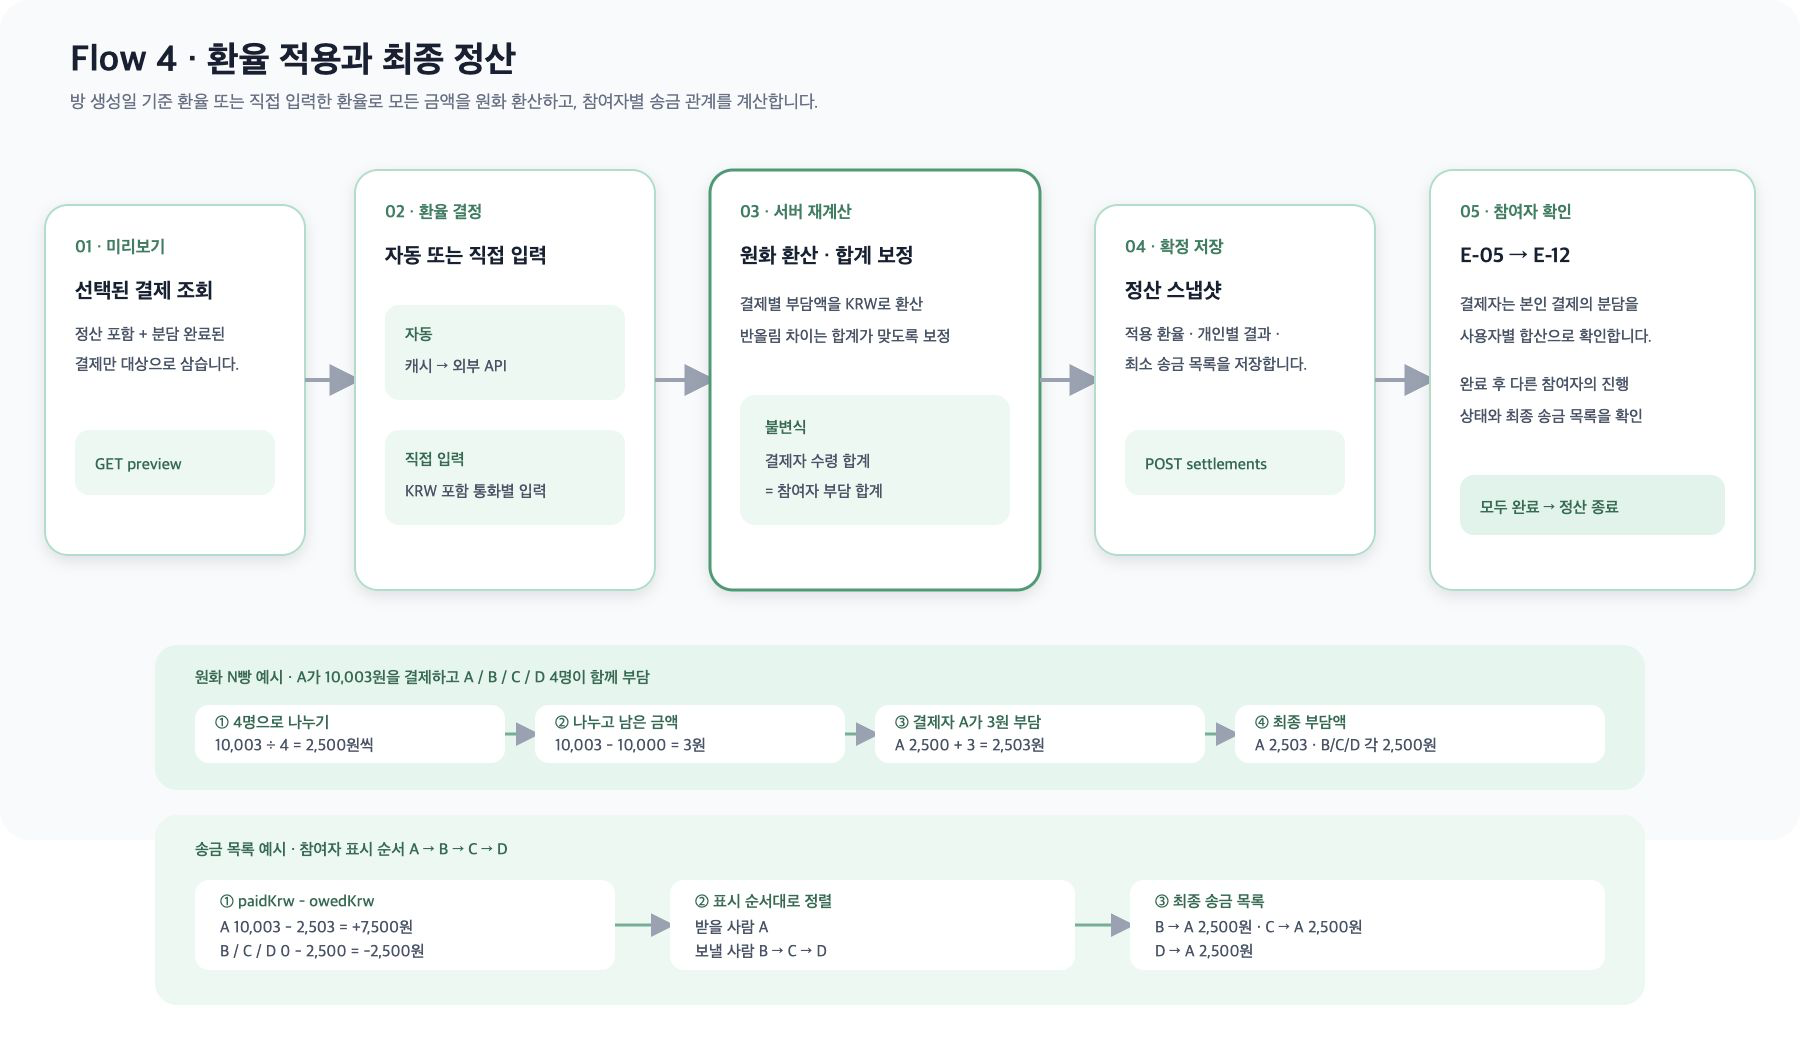
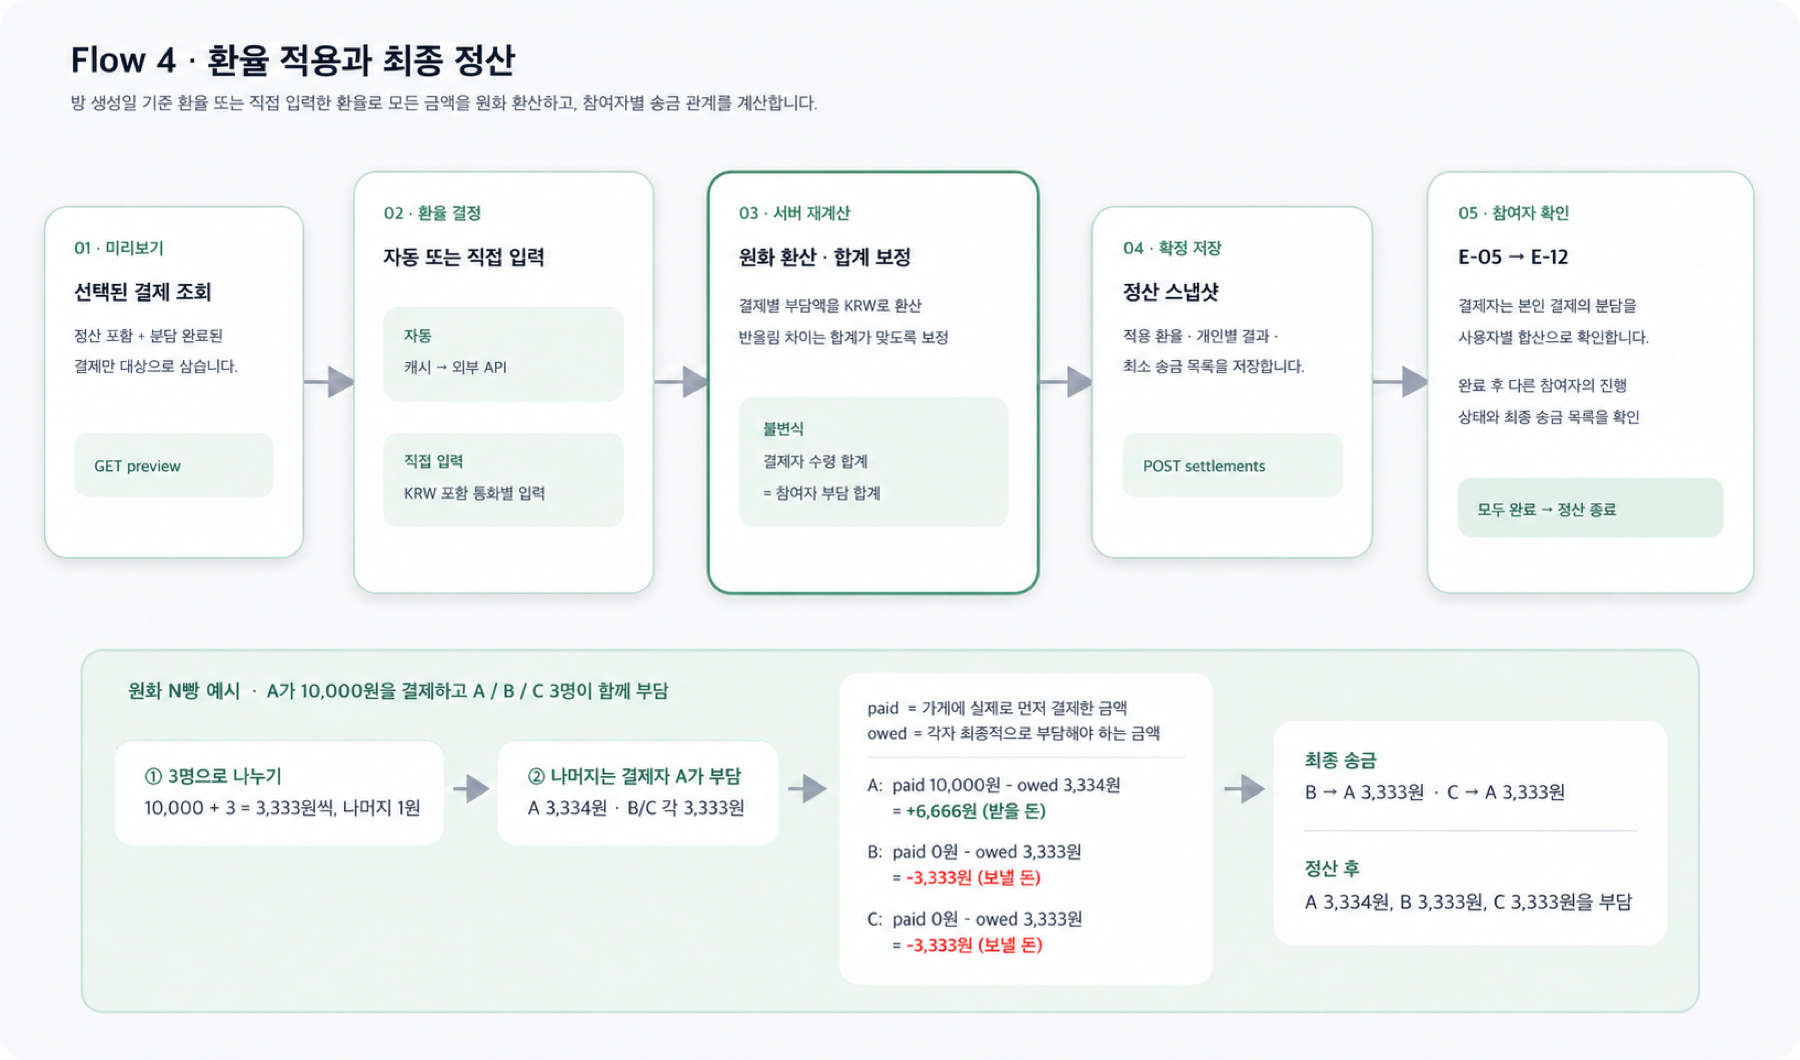
docs: 정산 계산 예시를 구체화한다

diff --git a/README.md b/README.md
@@ -143,6 +143,39 @@
 - 확정 요청은 프론트엔드의 계산 결과를 받지 않고 서버가 `Payment`와 `PaymentShare`를 다시 읽어 검증·계산합니다.
 - 결제 총액은 `HALF_UP`으로 원 단위 반올림합니다. 개별 부담액은 먼저 내림한 뒤 남은 원을 소수부가 큰 참여자부터 1원씩 배정해 합계를 보존합니다.
 - 참여자별로 `paidKrw - owedKrw`를 계산하고, 보낼 사람과 받을 사람을 `displayOrder` 순서로 연결해 결정적인 송금 목록을 만듭니다.
+
+#### 정산 계산 예시
+
+A, B, C가 각각 결제하고 A, B, C, D, E 다섯 명이 모든 결제를 함께 부담한다고 가정합니다.
+
+| 결제자 | 결제 내용 | 결제 금액 |
+|---|---|---:|
+| A | 숙소 | 50,000원 |
+| B | 식사 | 30,000원 |
+| C | 교통 | 20,000원 |
+| **합계** |  | **100,000원** |
+
+총 100,000원을 5명이 함께 부담하므로 각자의 `owedKrw`는 20,000원입니다. `paidKrw`는 각 참여자가 가게에 실제로 먼저 결제한 금액을 모두 더한 값입니다.
+
+| 참여자 | `paidKrw` — 먼저 결제한 금액 | `owedKrw` — 최종 부담할 금액 | `paidKrw - owedKrw` | 정산 결과 |
+|---|---:|---:|---:|---|
+| A | 50,000원 | 20,000원 | +30,000원 | 30,000원을 받아야 함 |
+| B | 30,000원 | 20,000원 | +10,000원 | 10,000원을 받아야 함 |
+| C | 20,000원 | 20,000원 | 0원 | 주고받을 금액 없음 |
+| D | 0원 | 20,000원 | -20,000원 | 20,000원을 보내야 함 |
+| E | 0원 | 20,000원 | -20,000원 | 20,000원을 보내야 함 |
+| **합계** | **100,000원** | **100,000원** | **0원** | 받을 금액과 보낼 금액이 일치 |
+
+양수는 받을 금액, 음수는 보낼 금액입니다. 참여자 표시 순서가 A → B → C → D → E라면 보낼 사람과 받을 사람을 순서대로 연결합니다.
+
+| 순서 | 보내는 사람 | 받는 사람 | 송금액 |
+|---:|---|---|---:|
+| 1 | D | A | 20,000원 |
+| 2 | E | A | 10,000원 |
+| 3 | E | B | 10,000원 |
+
+송금이 끝나면 다섯 명 모두 20,000원씩 부담한 상태가 되어 전체 결제 금액 100,000원과 정확히 일치합니다.
+
 - 확정 결과는 방당 하나의 `Settlement`에 환율 스냅샷, 참여자 결과, 송금 목록으로 저장됩니다. 재확정하면 상세 결과를 새 계산으로 교체합니다.
 - 이미 완료한 사용자가 `수정하기`를 누르면 완료 상태를 먼저 취소한 뒤 Flow 3으로 이동합니다. 수정·재확정 후 다시 결과를 확인하지 못하는 반복 이동을 방지하기 위한 동작입니다.
 
